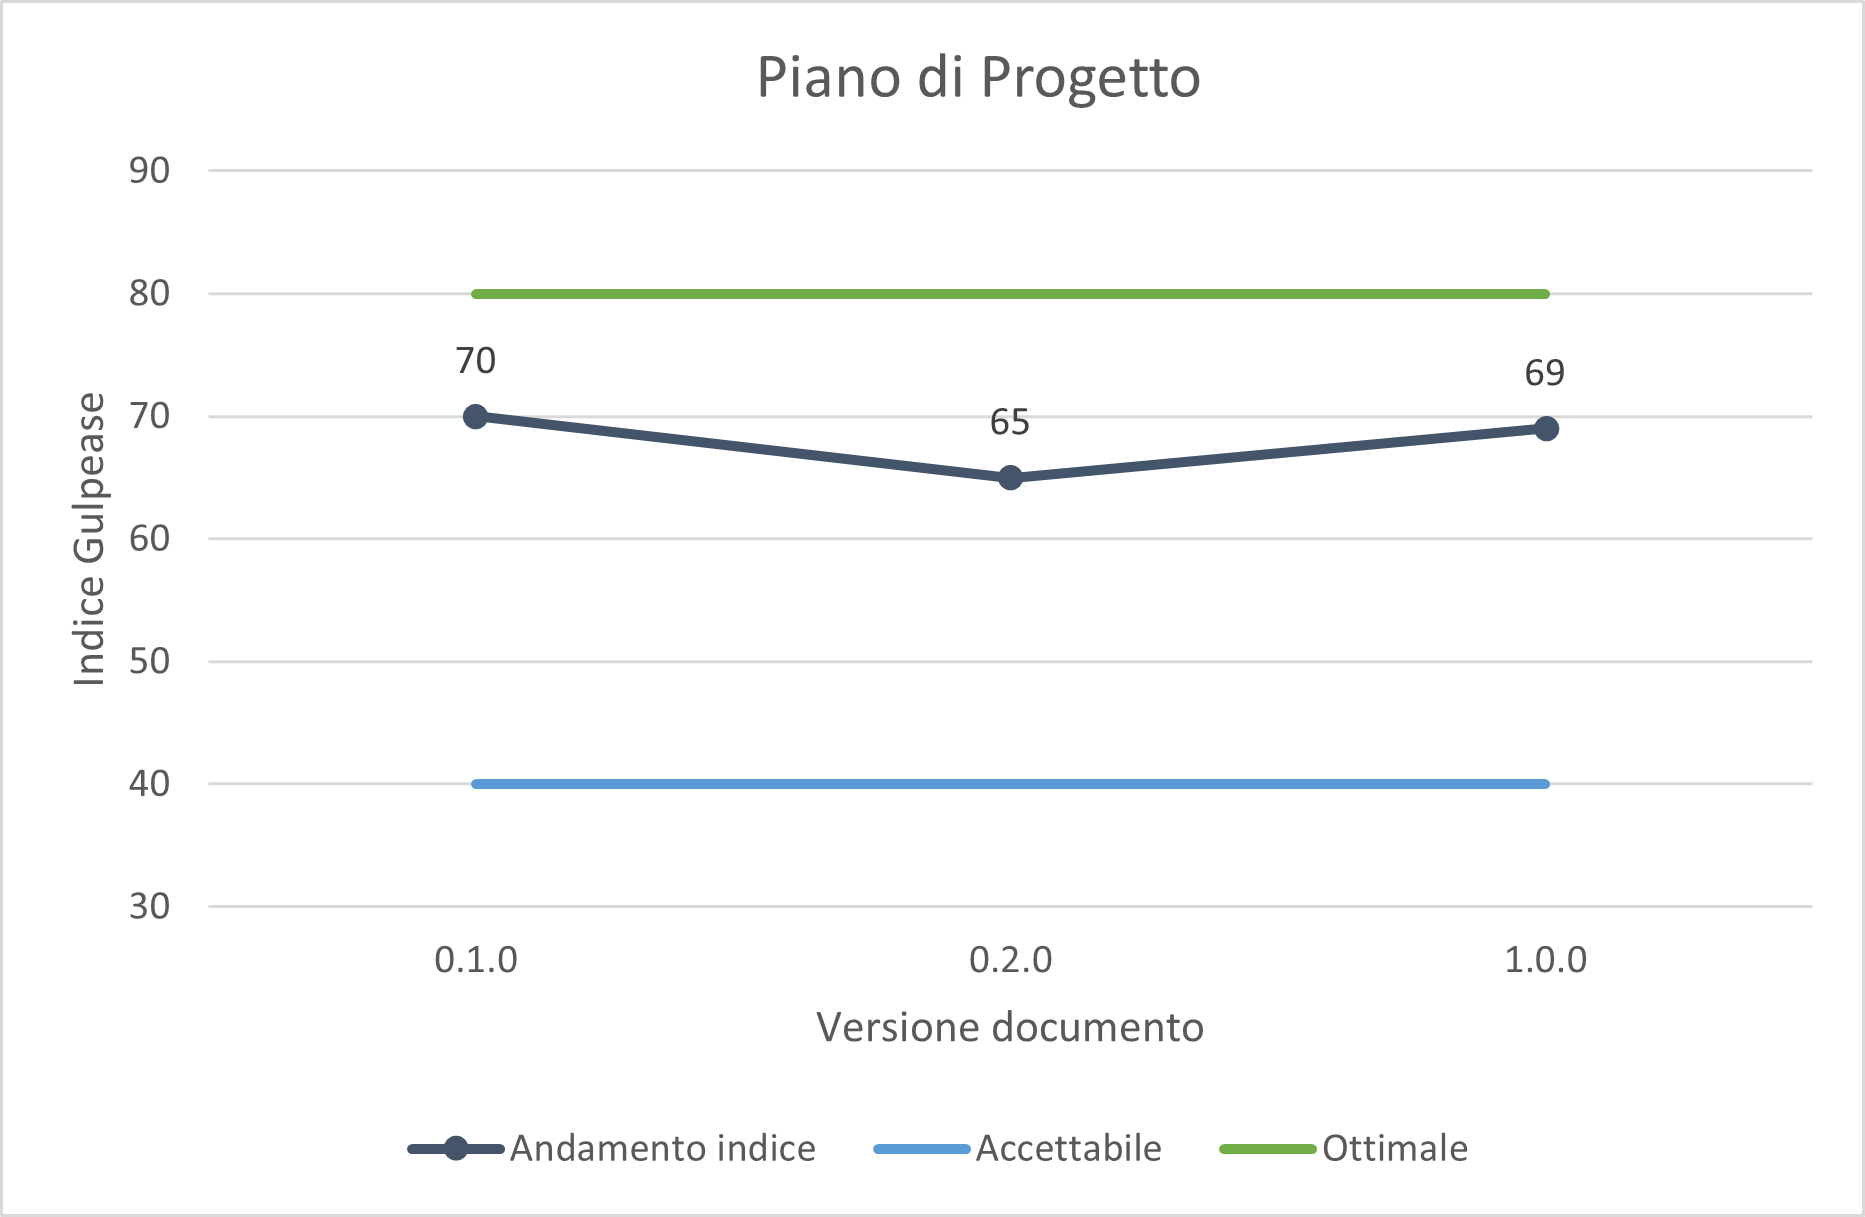
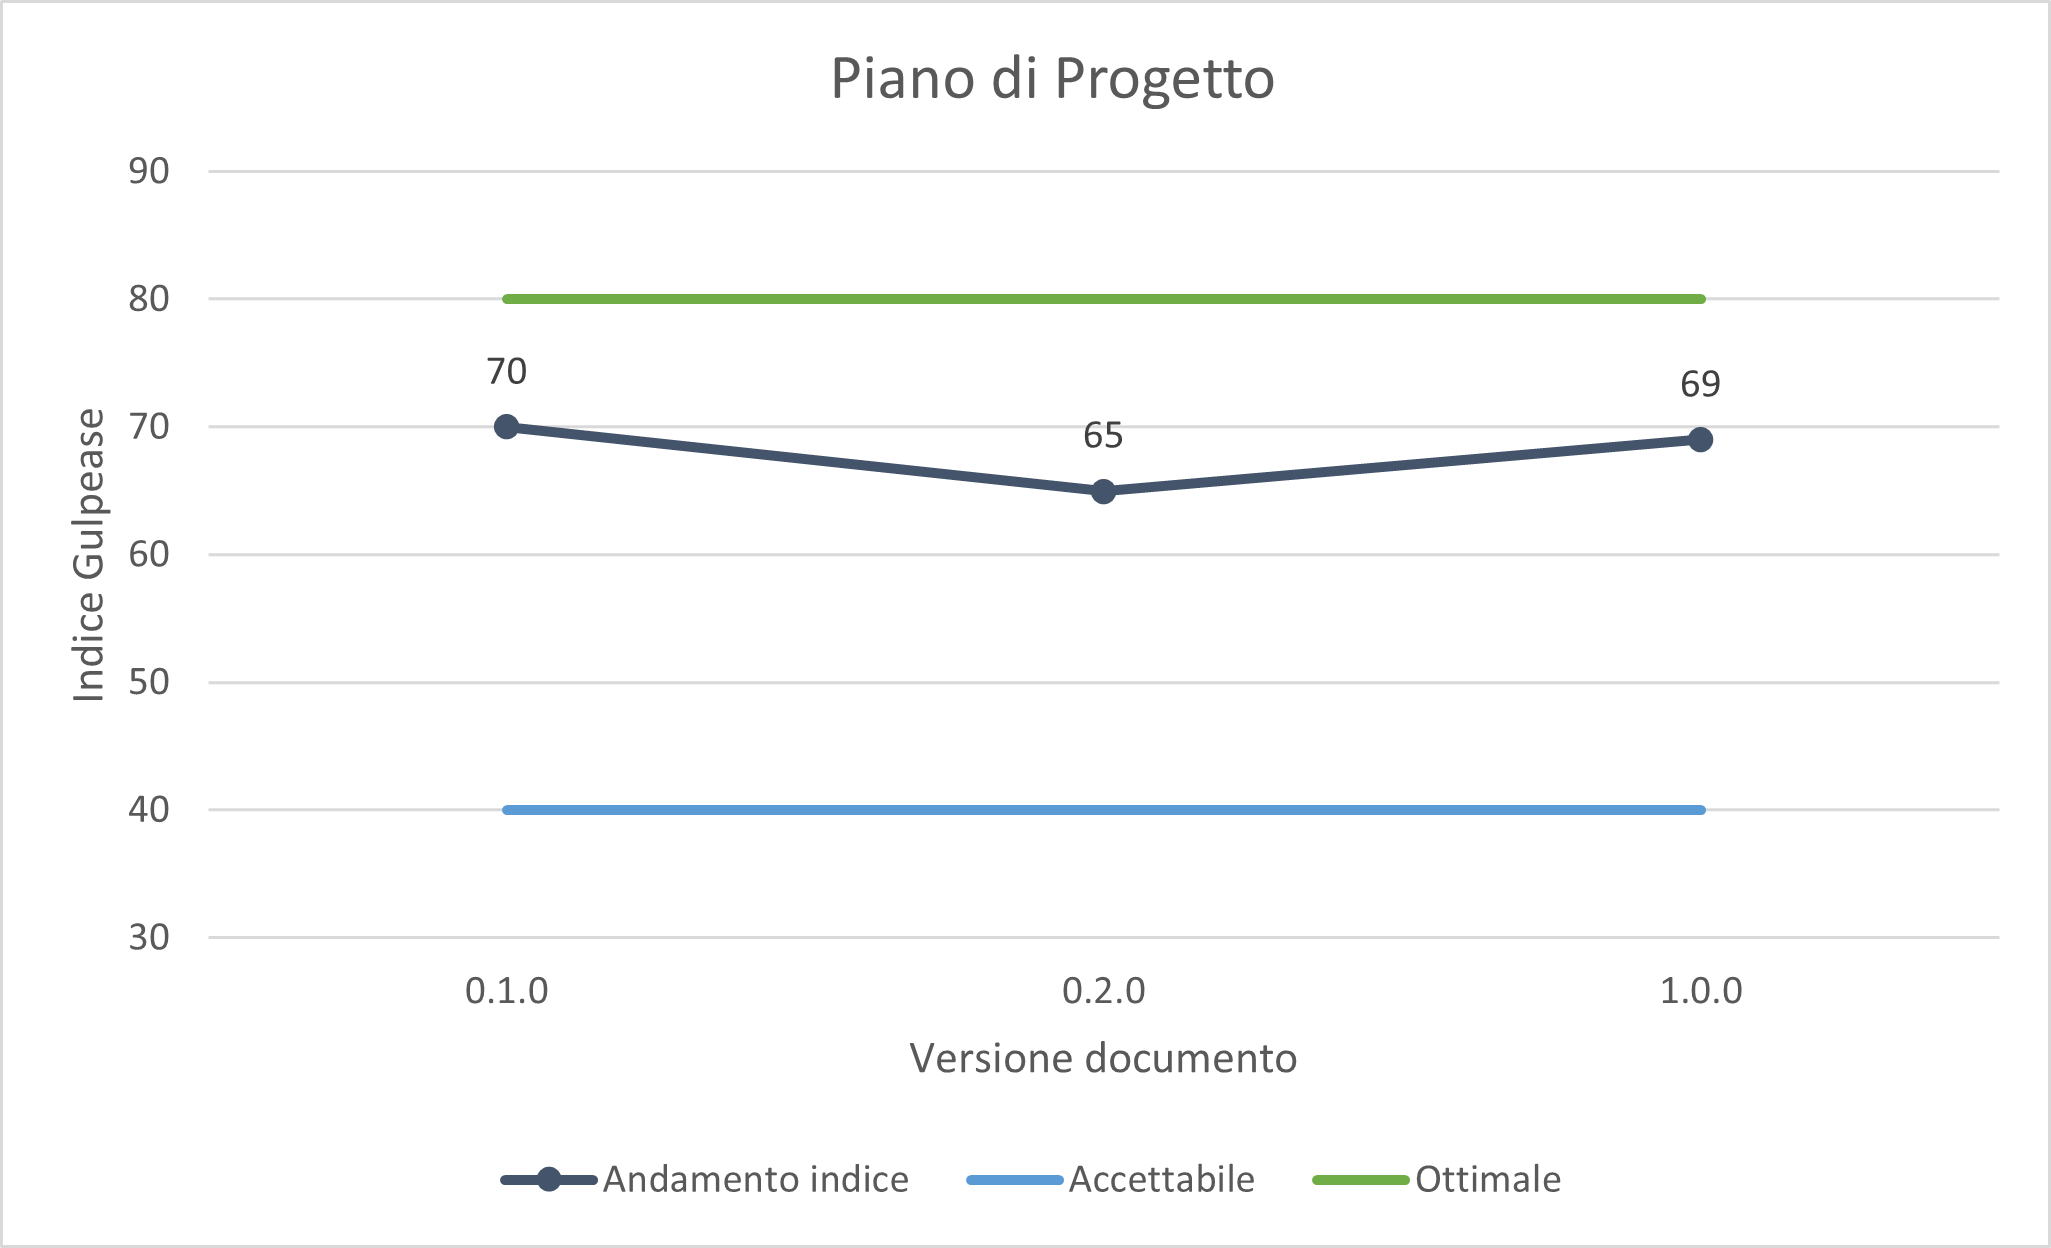
close #94 - Inserimento dati costi

diff --git a/DocumentazioneEsterna/PianoDiQualifica/res/ResocontoAttivitaDiVerifica/res/metriche/metriche.tex b/DocumentazioneEsterna/PianoDiQualifica/res/ResocontoAttivitaDiVerifica/res/metriche/metriche.tex
@@ -1,4 +1,5 @@
 \subsection{Metriche}
+Alcune metriche verranno calcolate successivamente con l'avanzare del progetto.\\
 
 I dati fanno riferimento a:
 \begin{itemize}
@@ -11,27 +12,57 @@ I dati fanno riferimento a:
 \input{res/ResocontoAttivitaDiVerifica/res/metriche/esitiIndiceGulpease.tex}
 
 \subsubsection{MPC4 - Correttezza ortografica}
+Di seguito è riportato il grafico degli errori ortografici rilevati sui vari documenti, il cui valore è definito accettabile e ottimale come descritto nella sezione §2.2.1.2.\\
+
 \begin{figure}[H]
 \centering
-\includegraphics[scale=0.90]{res/ResocontoAttivitaDiVerifica/res/metriche/grafici/img/correttezzaOrtografica.png}\\
+\includegraphics[scale=0.78]{res/ResocontoAttivitaDiVerifica/res/metriche/grafici/img/correttezzaOrtografica.png}\\
 \caption{Errori ortografici rilevati}
 \end{figure}
 
 \subsubsection{MPC6 - Estimate at Completion}
+Di seguito è riportato il grafico dell'Estimate at Completion, il cui valore è definito accettabile e ottimale come descritto nella sezione §2.3.1.1.\\
+
+\begin{figure}[H]
+\centering
+\includegraphics[scale=0.78]{res/ResocontoAttivitaDiVerifica/res/metriche/grafici/img/estimateCompletion.png}\\
+\caption{Andamento Estimate at Completion}
+\end{figure}
 
 \subsubsection{MPC7 - Variance at Completion}
+Di seguito è riportato il grafico della Variance at Completion, il cui valore è definito accettabile e ottimale come descritto nella sezione §2.3.1.2.\\
+
+\begin{figure}[H]
+\centering
+\includegraphics[scale=0.78]{res/ResocontoAttivitaDiVerifica/res/metriche/grafici/img/varianceCompletion.png}\\
+\caption{Andamento Variance at Completion}
+\end{figure}
 
 \subsubsection{MPC8 - Actual Cost}
+Di seguito è riportato il grafico dell'Actual Cost, il cui valore è definito accettabile e ottimale come descritto nella sezione §2.3.1.3.\\
 
-\subsubsection{MPC9 - Schedule Variance}
+\begin{figure}[H]
+\centering
+\includegraphics[scale=0.78]{res/ResocontoAttivitaDiVerifica/res/metriche/grafici/img/actualCost.png}\\
+\caption{Andamento Actual Cost}
+\end{figure}
 
 \subsubsection{MPC10 - Budget Variance}
+Di seguito è riportato il grafico del Budget Variance, il cui valore è definito accettabile e ottimale come descritto nella sezione §2.3.1.4.\\
+
+\begin{figure}[H]
+\centering
+\includegraphics[scale=0.78]{res/ResocontoAttivitaDiVerifica/res/metriche/grafici/img/budgetVariance.png}\\
+\caption{Andamento Budget Variance}
+\end{figure}
 
 
 \subsubsection{MPC11 - Percentuale di metriche soddisfatte}
+Di seguito è riportato il grafico della percentuale di metriche soddisfatte, il cui valore è definito accettabile e ottimale come descritto nella sezione §2.3.2.1.\\
+
 \begin{figure}[H]
 \centering
-\includegraphics[scale=0.90]{res/ResocontoAttivitaDiVerifica/res/metriche/grafici/img/metricheSoddisfatte.png}\\
-\caption{Percentuale di metriche soddisfatte}
+\includegraphics[scale=0.78]{res/ResocontoAttivitaDiVerifica/res/metriche/grafici/img/metricheSoddisfatte.png}\\
+\caption{Percentuale metriche soddisfatte}
 \end{figure}
 

diff --git a/DocumentazioneEsterna/PianoDiQualifica/res/ResocontoAttivitaDiVerifica/res/metriche/esitiIndiceGulpease.tex b/DocumentazioneEsterna/PianoDiQualifica/res/ResocontoAttivitaDiVerifica/res/metriche/esitiIndiceGulpease.tex
@@ -5,45 +5,45 @@ Di seguito è riportato il grafico dell'indice di Gulpease calcolato sui vari do
 
 \begin{figure}[H]
 \centering
-\includegraphics[scale=0.90]{res/ResocontoAttivitaDiVerifica/res/metriche/grafici/img/indiceGulpease.png}\\
+\includegraphics[scale=0.78]{res/ResocontoAttivitaDiVerifica/res/metriche/grafici/img/indiceGulpease.png}\\
 \caption{Andamento complessivo dell'indice di Gulpease}
 \end{figure}
 
-\myparagraph{Grafico per documento}
 
+\myparagraph{Grafico per documento}
 \begin{figure}[H]
 \centering
-\includegraphics[scale=0.90]{res/ResocontoAttivitaDiVerifica/res/metriche/grafici/img/gulpeaseADR.png}\\
+\includegraphics[scale=0.78]{res/ResocontoAttivitaDiVerifica/res/metriche/grafici/img/gulpeaseADR.png}\\
 \caption{Andamento dell'indice di Gulpease \AdR}
 \end{figure}
 
 \begin{figure}[H]
 \centering
-\includegraphics[scale=0.90]{res/ResocontoAttivitaDiVerifica/res/metriche/grafici/img/gulpeaseNDP.png}\\
+\includegraphics[scale=0.78]{res/ResocontoAttivitaDiVerifica/res/metriche/grafici/img/gulpeaseNDP.png}\\
 \caption{Andamento dell'indice di Gulpease \NdP}
 \end{figure}
 
 \begin{figure}[H]
 \centering
-\includegraphics[scale=0.90]{res/ResocontoAttivitaDiVerifica/res/metriche/grafici/img/gulpeasePDP.png}\\
+\includegraphics[scale=0.78]{res/ResocontoAttivitaDiVerifica/res/metriche/grafici/img/gulpeasePDP.png}\\
 \caption{Andamento dell'indice di Gulpease \PdP}
 \end{figure}
 
 \begin{figure}[H]
 \centering
-\includegraphics[scale=0.90]{res/ResocontoAttivitaDiVerifica/res/metriche/grafici/img/gulpeasePDQ.png}\\
+\includegraphics[scale=0.78]{res/ResocontoAttivitaDiVerifica/res/metriche/grafici/img/gulpeasePDQ.png}\\
 \caption{Andamento dell'indice di Gulpease \PdQ}
 \end{figure}
 
 \begin{figure}[H]
 \centering
-\includegraphics[scale=0.90]{res/ResocontoAttivitaDiVerifica/res/metriche/grafici/img/gulpeaseSDF.png}\\
+\includegraphics[scale=0.78]{res/ResocontoAttivitaDiVerifica/res/metriche/grafici/img/gulpeaseSDF.png}\\
 \caption{Andamento dell'indice di Gulpease \SdF}
 \end{figure}
 
 \begin{figure}[H]
 \centering
-\includegraphics[scale=0.90]{res/ResocontoAttivitaDiVerifica/res/metriche/grafici/img/gulpeaseG.png}\\
+\includegraphics[scale=0.78]{res/ResocontoAttivitaDiVerifica/res/metriche/grafici/img/gulpeaseG.png}\\
 \caption{Andamento dell'indice di Gulpease \Glossario}
 \end{figure}
 

diff --git a/DocumentazioneEsterna/PianoDiQualifica/res/command.tex b/DocumentazioneEsterna/PianoDiQualifica/res/command.tex
@@ -2,10 +2,10 @@
 \newcommand{\doctitle}{Piano di Qualifica }
 
 %% INSERIRE QUI LA VERSIONE ATTUALE DEL DOCUMENTO (INSERITE SEMPRE UNO SPAZIO ALLA FINE DELLA VERSIONE)
-\newcommand{\versiondoc}{1.0.0 }
+\newcommand{\versiondoc}{1.0.2 }
 
 %%INSERITE QUI LA DATA DI COMPILAZIONE FINALE DEL DOCUMENTO
-\newcommand{\datared}{2021-01-11}
+\newcommand{\datared}{2021-02-25}
 
 %%INSERIRE QUI IL/I REDATTORI
 \newcommand{\redattore}{

diff --git a/DocumentazioneEsterna/PianoDiQualifica/res/QualitaDiProcesso/res/organizzativi.tex b/DocumentazioneEsterna/PianoDiQualifica/res/QualitaDiProcesso/res/organizzativi.tex
@@ -9,7 +9,7 @@
 	\item \textbf{Sigla}: EAC;
 	\item \textbf{Indicatori utili}: 
 		\begin{itemize}
-		\item[$\ast$] \textbf{BAC - Budget at Completion}: budget preventivato;
+		\item[$\ast$] \textbf{BAC - Budget at Completion}: budget preventivato per periodo;
 		\end{itemize}
 	\item \textbf{Range di valori che può assumere}: 
 		\begin{itemize}

diff --git a/DocumentazioneEsterna/PianoDiQualifica/res/DiarioModifiche.tex b/DocumentazioneEsterna/PianoDiQualifica/res/DiarioModifiche.tex
@@ -15,6 +15,7 @@
 \textbf{Descrizione}\\
 \endhead
 
+1.0.2 & 2021-02-25 & \NM & \ammProg & Calcolo delle metriche\\
 1.0.1 & 2021-02-23 & \NM & \ammProg & Redazione §A e §B a ``cruscotto"\\
 1.0.0 & 2021-01-11 & \FD & \respProg & Approvazione del documento per RR.\\
 0.2.0 & 2021-01-10 & \MDI & \verifProg & Verifica del documento.\\

diff --git a/DocumentazioneEsterna/PianoDiQualifica/res/ValutazionePerIlMiglioramento/valutazionePerIlMiglioramento.tex b/DocumentazioneEsterna/PianoDiQualifica/res/ValutazionePerIlMiglioramento/valutazionePerIlMiglioramento.tex
@@ -16,5 +16,6 @@ Le valutazioni verranno descritte in forma tabellare per facilitarne la consulta
 
 
 \input{res/ValutazionePerIlMiglioramento/res/valutazioneOrganizzazione.tex}
+\newpage
 \input{res/ValutazionePerIlMiglioramento/res/valutazioneRuoli.tex}
 \input{res/ValutazionePerIlMiglioramento/res/valutazioneStrumentiDiLavoro.tex}
